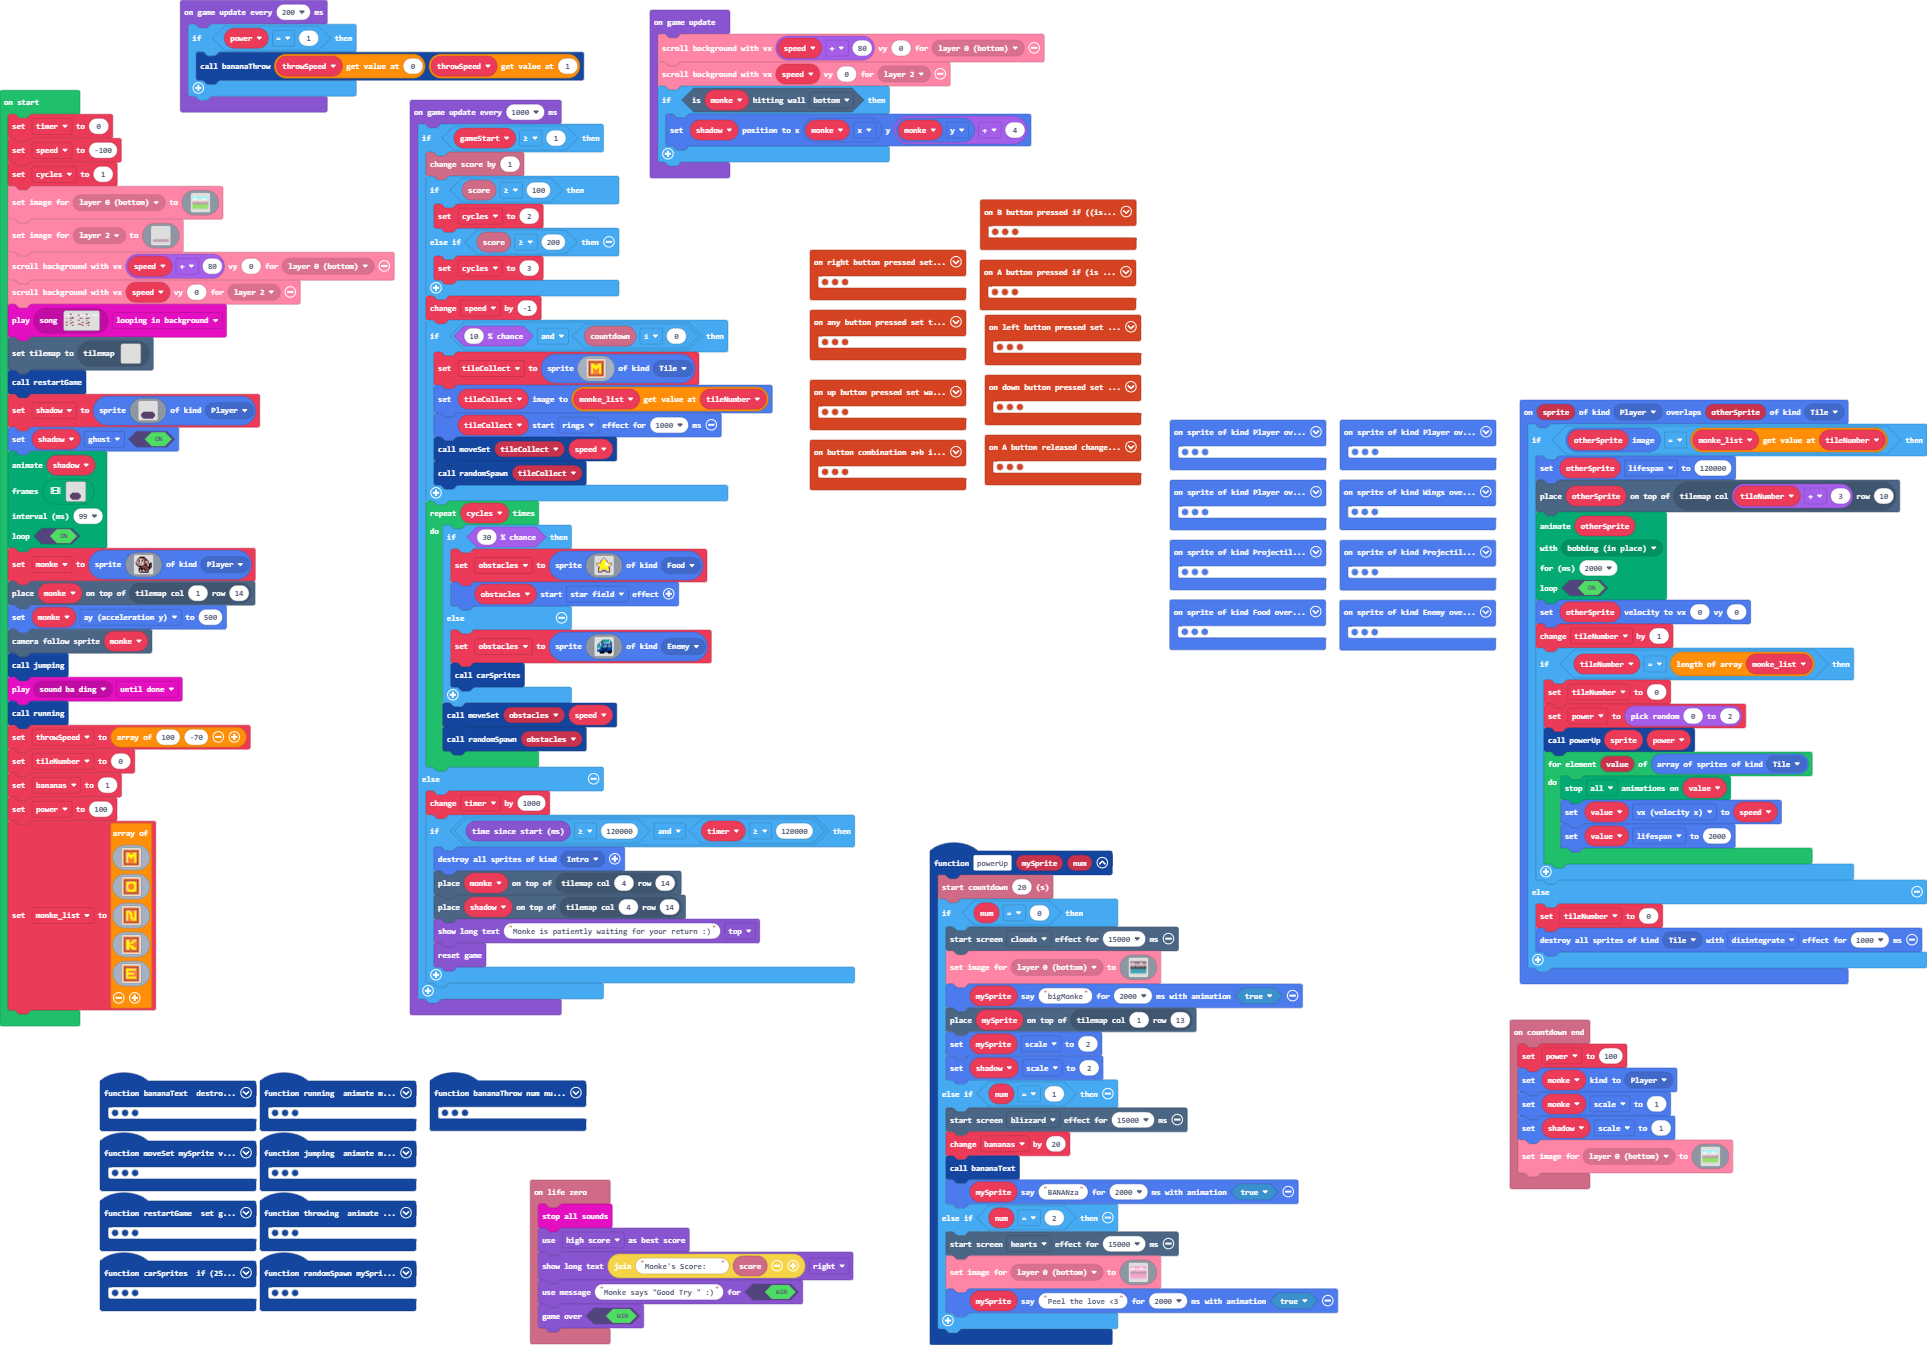
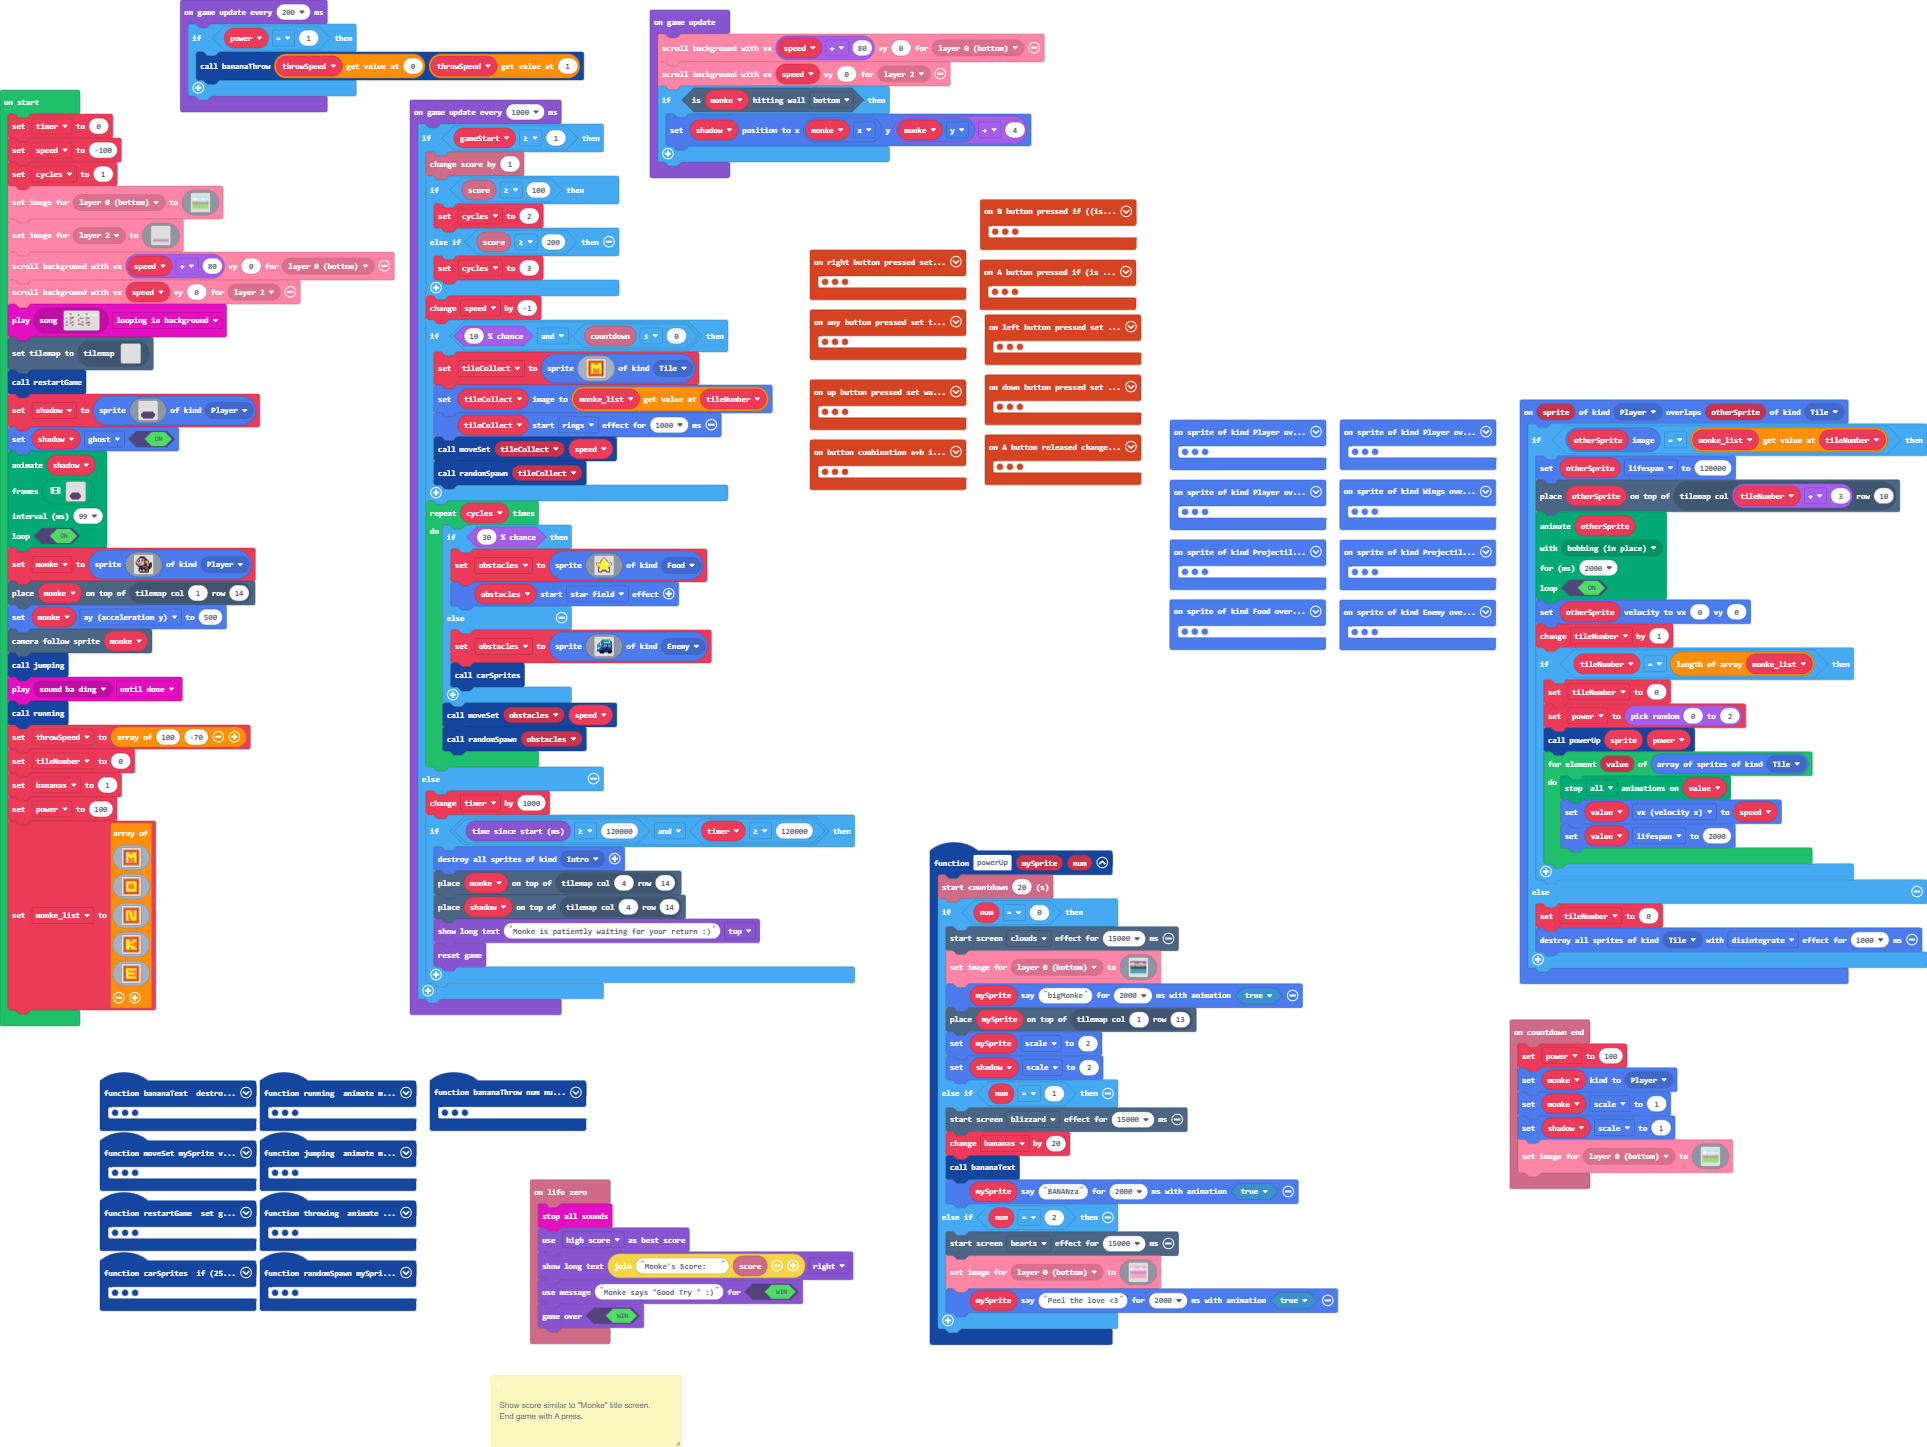
Update main.blocks, main.ts

diff --git a/main.ts b/main.ts
@@ -5,6 +5,11 @@ namespace SpriteKind {
     export const Shadow = SpriteKind.create()
     export const Heart = SpriteKind.create()
 }
+/**
+ * Show score similar to "Monke" title screen.
+ * 
+ * End game with A press.
+ */
 sprites.onOverlap(SpriteKind.Player, SpriteKind.Enemy, function (sprite, otherSprite) {
     if (power2 == 0) {
         sprites.destroy(otherSprite, effects.warmRadial, 100)
